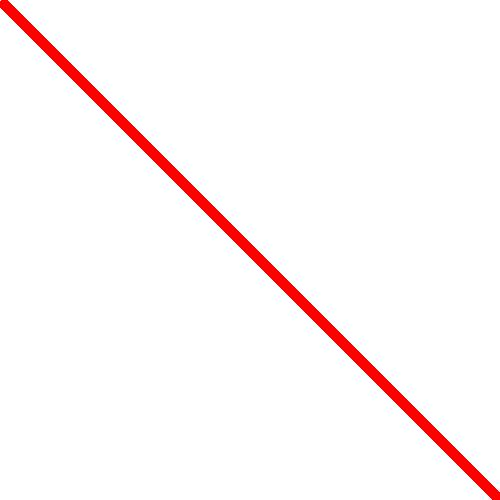
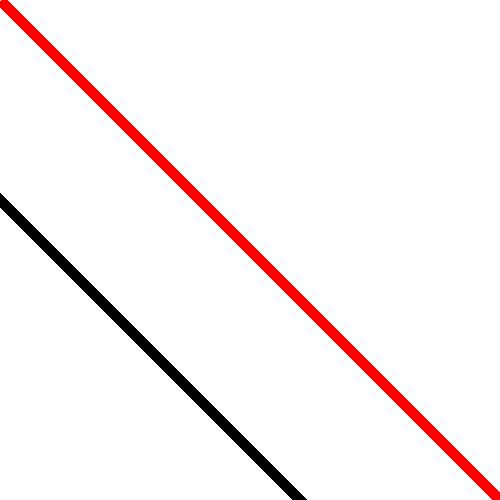
added shift

Changed region(s): [[0.0, 0.39, 0.63, 1.0]]

diff --git a/paint_lib.py b/paint_lib.py
@@ -17,11 +17,14 @@ def draw_by_pattern_JPEG(test_pattern, img_size, background_color):
 
     scaled_vector = Vector.from_angle(math.radians(local_pattern.angle))
     scaled_vector.multiply(img_size[0] * 2)
-
     # basis scaled_vector
     drawing_object.line((origin.x, origin.y, scaled_vector.x, scaled_vector.y), fill=255, width=10)
+
     # opposite direction to the scaled_vector
-    # drawing_object.line((origin.x, origin.y, -scaled_vector.x, -scaled_vector.y), fill=255, width=10)
+    scaled_vector.multiply(1)
+    scaled_vector.perpendicular_shift()
+    origin.perpendicular_shift()
+    drawing_object.line((origin.x, origin.y, scaled_vector.x, scaled_vector.y), fill=0, width=10)
 
     # save changes to object-image
     local_image.save("test.jpeg", "jpeg")

diff --git a/vector.py b/vector.py
@@ -15,3 +15,8 @@ class Vector:
         self.x *= length
         self.y *= length
         return self
+
+    def perpendicular_shift(self):
+        self.x += -100
+        self.y += 100
+        return self
